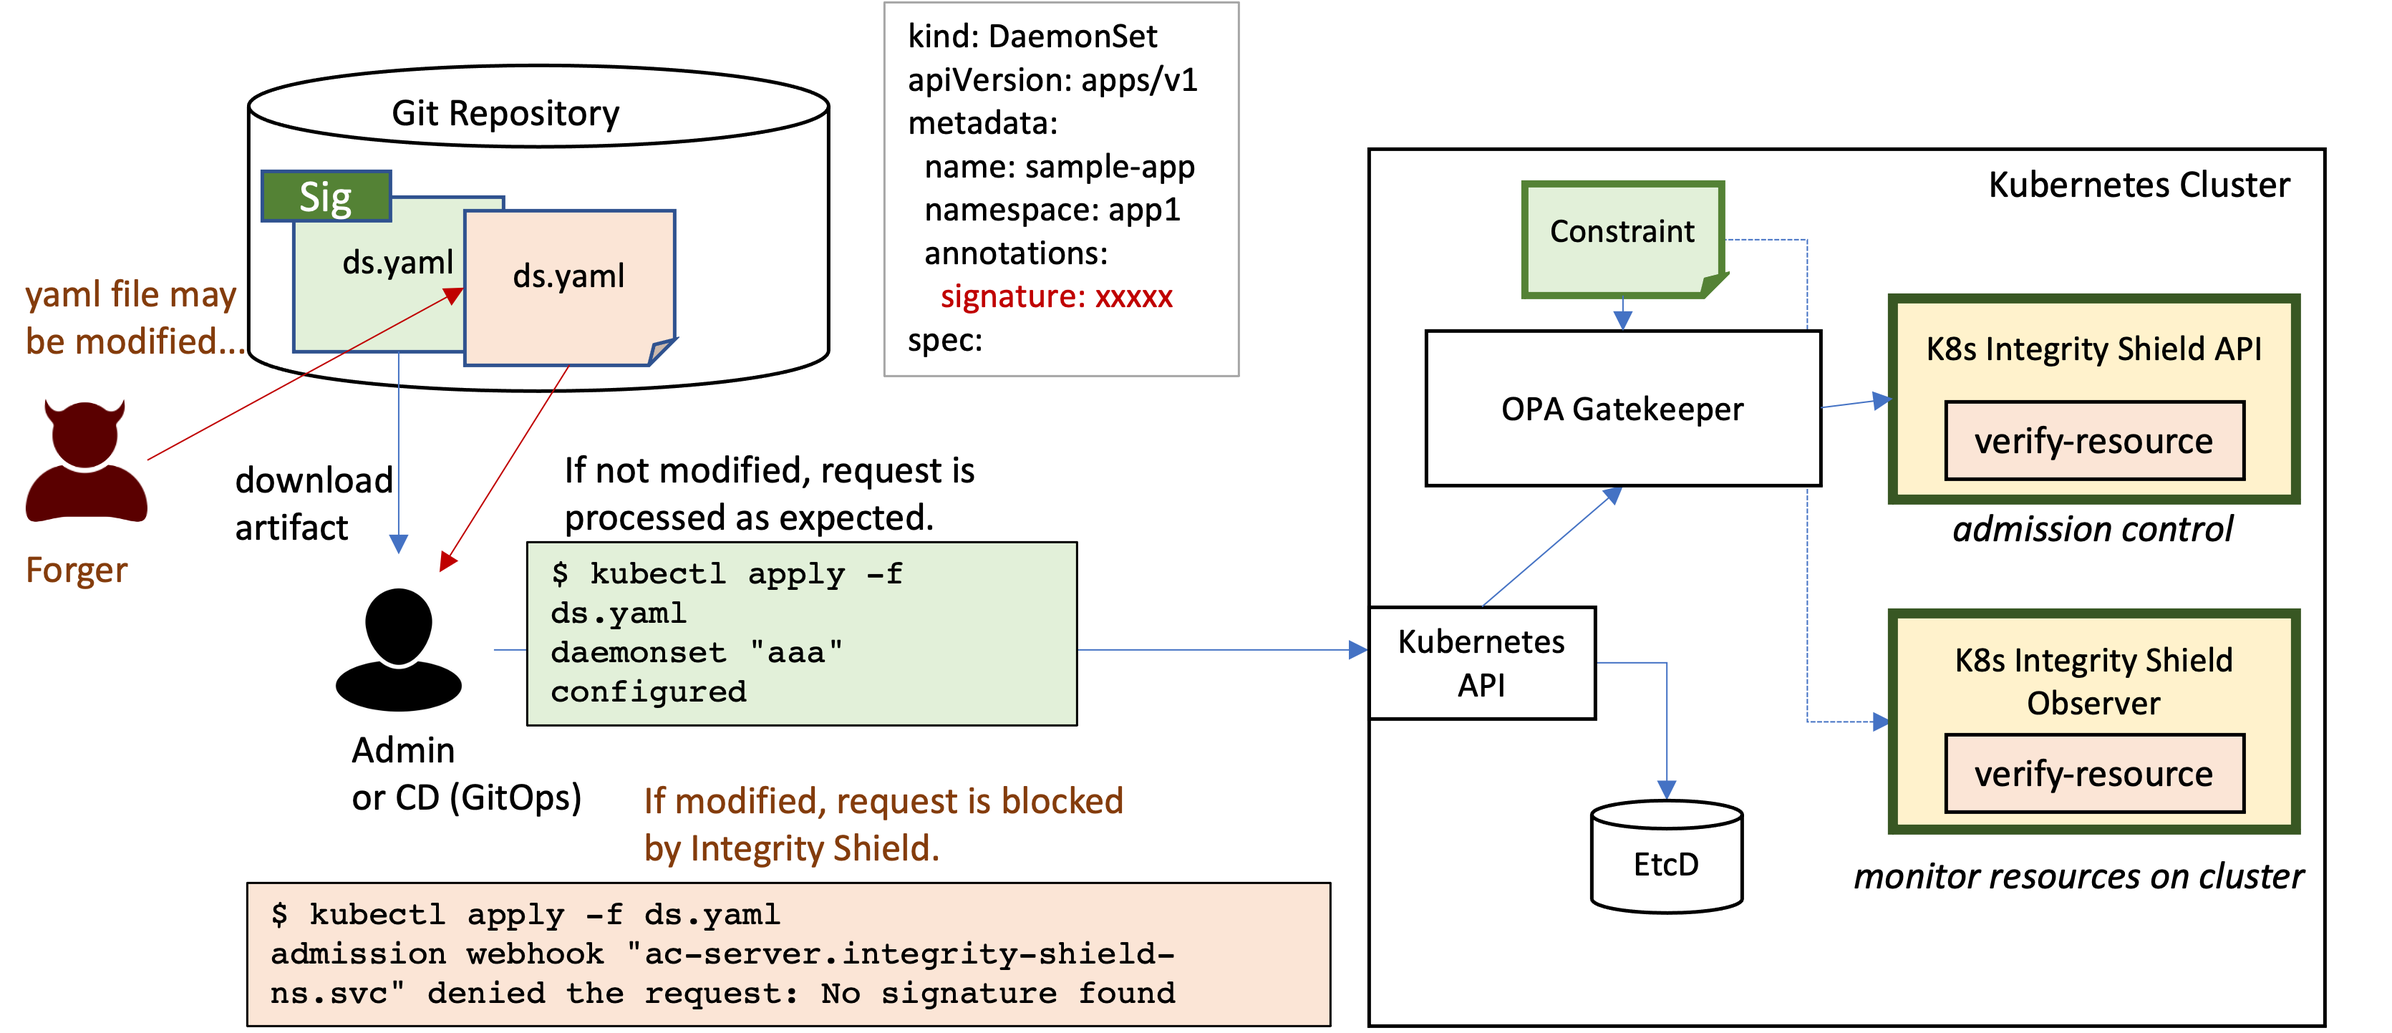
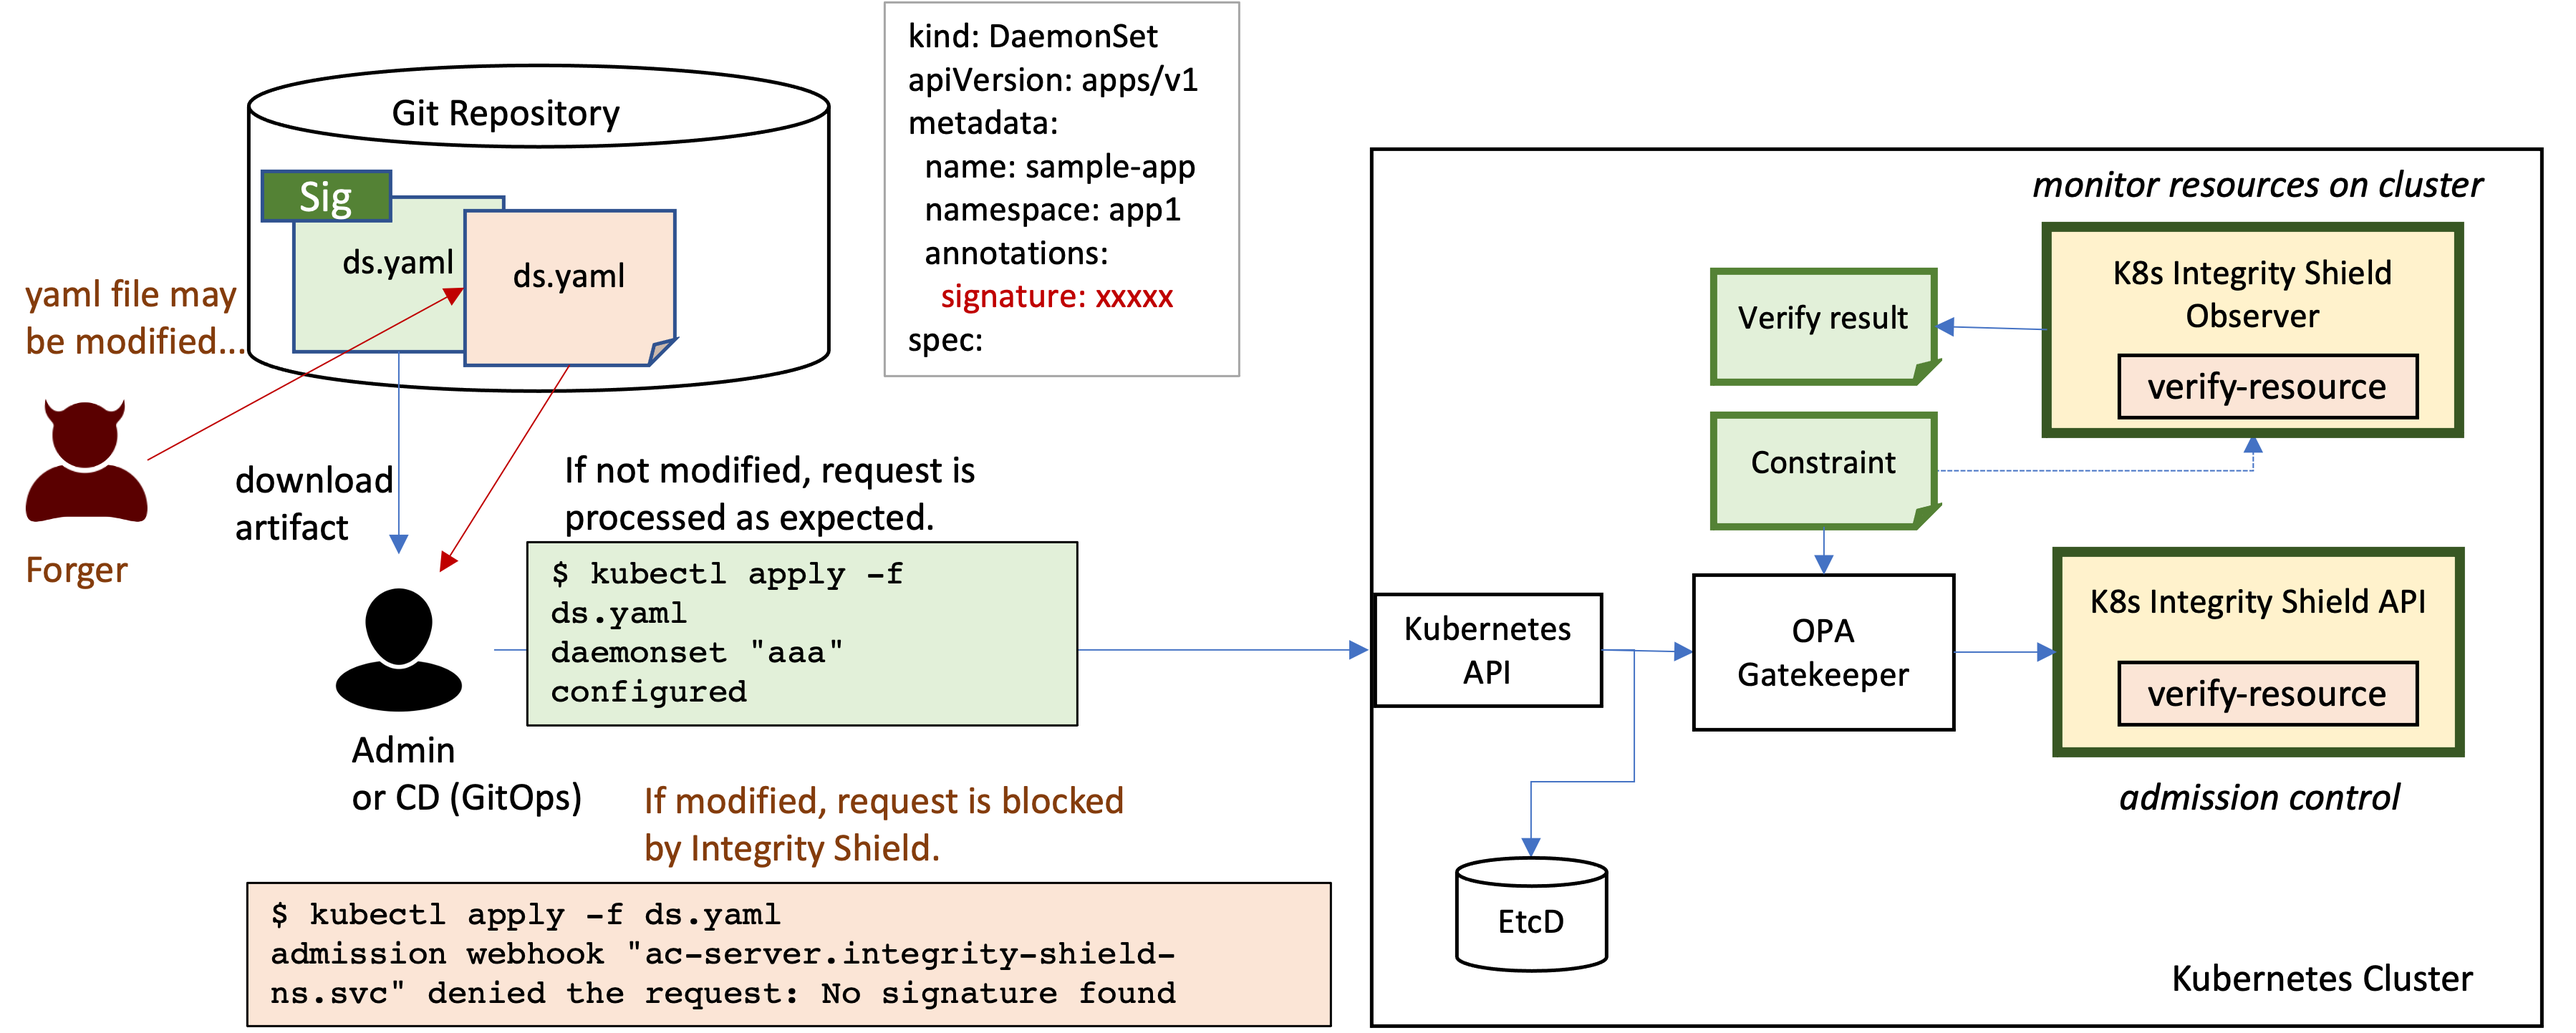
update README.md

diff --git a/README.md b/README.md
@@ -10,23 +10,16 @@ Integrity Shield's capabilities are
 - Handle variations in application packaging and deployment (Helm /Operator /YAML / OLM Channel) with no modification in app installer
 - Continuous resource monitoring
 
-![Scenario](./docs/new-ishield-scenario.png)
+![Scenario](./docs/new-ishield-scenario2.png)
 
+## How Integrity Shield works
 
-### Integrity Shield API
-
-Integrity shield api includes the main logic to verify admission requests. 
-Integrity shield api receives a k8s resource from OPA/Gatekeeper, validates the resource which is included in the admission request based on the profile and sends the verification result to OPA/Gatekeeper.
+### Protect Resources on cluster
+Integrity shield api receives a k8s resource from OPA/Gatekeeper, validates the resource which is included in the admission request and sends the verification result to OPA/Gatekeeper.
 Integrity shield api uses [k8s-manifest-sigstore](https://github.com/sigstore/k8s-manifest-sigstore) internally to verify k8s manifest.
 
-You can enable the protection by integrity shield with a few simple steps.
-Please see [Usage](./shield/README.md).
-
-### Gatekeeper Constraint
-Integrity shield works with OPA/Gatekeeper by installing ConstraintTemplate(`template-manifestintegrityconstraint.yaml` ).
-We use [constraint framework](https://open-policy-agent.github.io/gatekeeper/website/docs/howto/#constraints) of OPA/Gatekeeper to define the resources to be protected.
-
-For example, the following snippet shows an example definition of protected resources in a namespace. 
+You can define which resource to be protected in `ManifestIntegrityConstraint` which is a custom resource based on [constraint framework](https://open-policy-agent.github.io/gatekeeper/website/docs/howto/#constraints) of OPA/Gatekeeper.
+For example, the following snippet shows an example definition of protected resources in a namespace. `ManifestIntegrityConstraint` includes the parameters field. In the parameters field, you can configure the profile for verifying resources such as ignoreFields, signers, and so on.
 ```yaml
 apiVersion: constraints.gatekeeper.sh/v1beta1
 kind: ManifestIntegrityConstraint
@@ -56,12 +49,12 @@ spec:
       fields:
       - spec.replicas
 ```
-`ManifestIntegrityConstraint` resource includes the parameters field. In the parameters field, you can configure the profile for verifying resources such as ignoreFields, signers, and so on.
 
-### Observer 
-Integrity shield observer continuously monitors Kubernetes manifest integrity.
-It periodically verifies resources on the cluster using [k8s-manifest-sigstore](https://github.com/sigstore/k8s-manifest-sigstore) internally and exports results to ManifestIntegrityState resources.  
-For example, the following snippet shows an example of audit result based on one ManifestIntegrityConstraint resource. You can see there is one invalid deployment resource in sample-ns.
+
+### Monitor Kubernetes resource integrity on cluster
+Integrity shield observer continuously monitors Kubernetes resource integrity on cluster according ManifestIntegrityConstraint resources and exports results to resources called ManifestIntegrityState.
+
+For example, the following snippet shows an example of audit result based on deployment-constraint. You can see there is one invalid deployment resource in sample-ns.
 
 ```yaml
 apiVersion: apis.integrityshield.io/v1
@@ -86,49 +79,16 @@ spec:
       kind: Deployment
       name: sample-app
       namespace: sample-ns
-      result: >-
-        failed to verify signature: signature verification failed: error occured
-        while verifying image
-        `sample-image-registry/sample-app-deploy-signature:0.0.1`; no
-        matching signatures:
+      result: 'failed to verify signature: failed to get signature: `cosign.sigstore.dev/message`
+      is not found in the annotations'
 ```
-
-
-### Admission Controller
-You can use an admission controller instead of OPA/Gatekeeper.  
-In this case, you can decide which resources to be protected in the custom resource called `ManifestIntegrityProfile` instead of OPA/Gatekeeper constraint.
-
-The following snippet is an example of `ManifestIntegrityProfile`.
-```yaml
-apiVersion: apis.integrityshield.io/v1alpha1
-kind: ManifestIntegrityProfile
-metadata:
-  name: profile-configmap
-spec:
-  match:
-    kinds:
-    - kinds:
-      - ConfigMap
-    namespaces:
-    - sample-ns
-  parameters:
-    constraintName: deployment-constraint
-    ignoreFields:
-    - fields:
-      - data.comment
-      objects:
-      - kind: ConfigMap
-    signers:
-    - signer@signer.com
-```
-Integrity shield with its own admission controller can be installed by this operator cr [apis_v1_integrityshield_ac.yaml](https://github.com/open-cluster-management/integrity-shield/blob/master/integrity-shield-operator/config/samples/apis_v1_integrityshield_ac.yaml).
 
 ### Quick Start
 See [Quick Start](docs/README_QUICK.md)
 
 ## Supported Platforms
 
-IShield can be deployed with operator. We have verified the feasibility on the following platforms:
+Integrity Shield can be deployed with operator. We have verified the feasibility on the following platforms:
 
 [RedHat OpenShift 4.7.1 and 4.9.0](https://www.openshift.com)  
 [Kind Cluster v1.19.7 and v1.21.1](https://kind.sigs.k8s.io)

diff --git a/docs/README.md b/docs/README.md
@@ -1,6 +1,6 @@
 # Integrity Shield
 
-## Integrity Shield (IShield)
+## Integrity Shield
 Integrity Shield is a tool for built-in preventive integrity control for regulated cloud workloads. It provides signature-based assurance of integrity for Kubernetes resources at cluster side.  
 
 Integrity Shield API works with [OPA/Gatekeeper](https://github.com/open-policy-agent/gatekeeper), verifies if the requests attached a signature, and blocks any unauthorized requests according to the constraint before actually persisting in etcd. Integrity Shield API uses [k8s-manifest-sigstore](https://github.com/sigstore/k8s-manifest-sigstore) internally to verify Kubernetes manifest.
